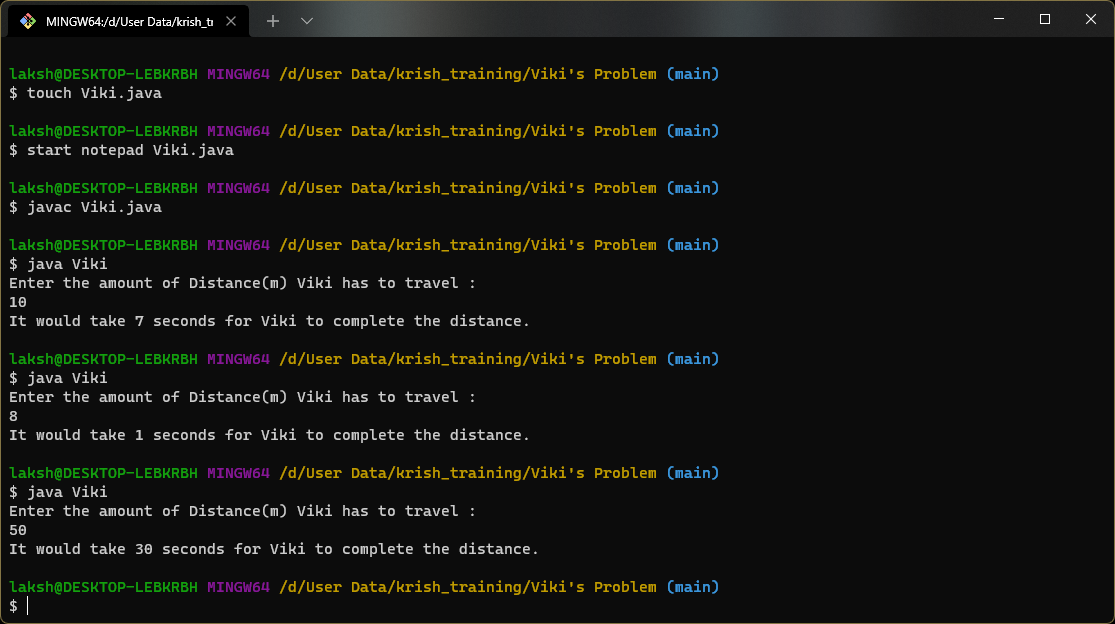
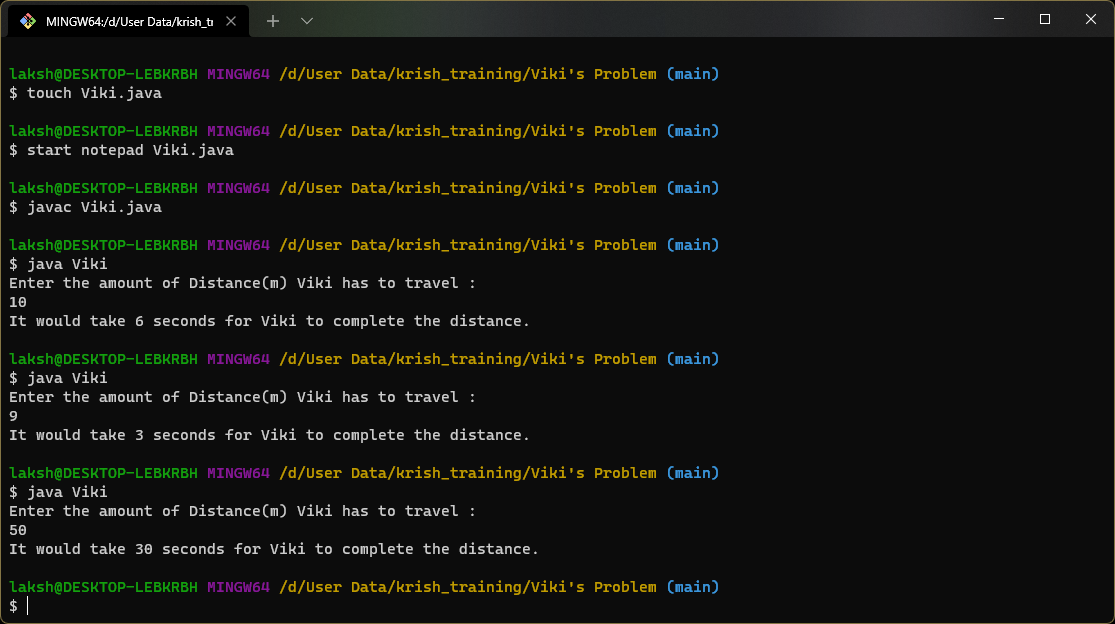
Handled Input Exceptions

Changed region(s): [[0.2744, 0.0, 0.3964, 0.0609], [0.6404, 0.0, 0.7013, 0.0609]]

diff --git a/Viki's Problem/Viki.java b/Viki's Problem/Viki.java
@@ -1,3 +1,4 @@
+import java.util.InputMismatchException;
 import java.util.Scanner;
 
 public class Viki {
@@ -12,22 +13,23 @@ public class Viki {
 
 	public static void main(String[] args) {
 		Scanner s = new Scanner(System.in);
-		System.out.println("Enter the amount of Distance(m) Viki has to travel :");
-
-		int distance = s.nextInt();
-		jump(distance);
+		System.out.println("Enter the Distance(m) Viki has to travel :");
+		try {
+			double distance = s.nextDouble();
+			jump(distance);
+		} catch (InputMismatchException e) {
+			System.out.println("Invalid Number Input.");
+		}
 	}
 
-	public static void jump(int distance) {
+	public static void jump(double distance) {
 		jump(distance, REST_PEROID_3, 0);
 	}
 
-	private static void jump(int distance, int previousRest, int timeElapsed) {
+	private static void jump(double distance, int previousRest, int timeElapsed) {
 
 		if (distance <= 0) {
-			if (distance == 0) {
-				timeElapsed -= previousRest;
-			}
+			timeElapsed -= previousRest;
 			System.out.println("It would take " + timeElapsed + " seconds for Viki to complete the distance.");
 			return;
 		}
